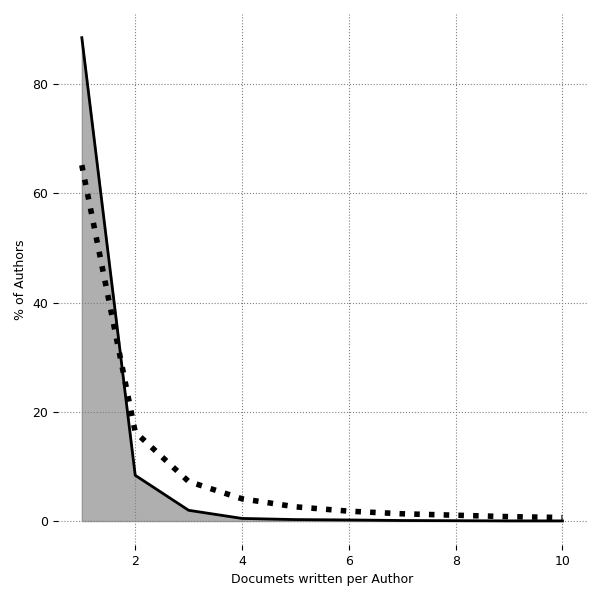
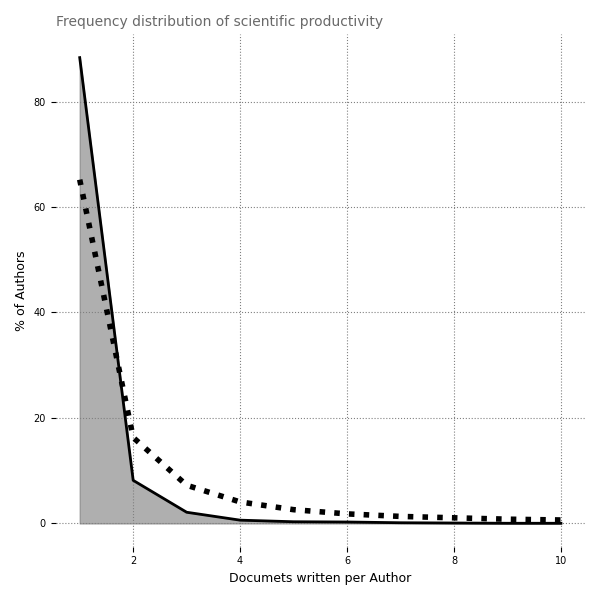
lotka plot enhancement

diff --git a/techminer/lotka_plot.py b/techminer/lotka_plot.py
@@ -5,10 +5,11 @@ Lotka Law's plot
 
 >>> from techminer import *
 >>> directory = "/workspaces/techminer-api/tests/data/"
->>> lotka_plot(directory)
+>>> file_name = "/workspaces/techminer-api/sphinx/images/lotka.png"
+>>> lotka_plot(directory).savefig(file_name)
 
 .. image:: images/lotka.png
-    :width: 400px
+    :width: 600px
     :align: center
 
 """
@@ -23,7 +24,6 @@ def lotka_plot(
     directory=None,
     cmap="Greys",
     figsize=(6, 6),
-    fontsize=9,
 ):
     """
     Returns a dataframe with the core analysis.
@@ -39,9 +39,6 @@ def lotka_plot(
         Dataframe with the core sources of the records
     """
 
-    # documents = load_filtered_documents(directory)
-
-    matplotlib.rc("font", size=fontsize)
     fig, ax_ = plt.subplots(figsize=figsize)
     cmap = plt.cm.get_cmap(cmap)
     color = cmap(0.6)
@@ -83,8 +80,17 @@ def lotka_plot(
 
     ax_.grid(axis="y", color="gray", linestyle=":")
     ax_.grid(axis="x", color="gray", linestyle=":")
-    ax_.set_ylabel("% of Authors")
-    ax_.set_xlabel("Documets written per Author")
+    ax_.tick_params(axis="x", labelsize=7)
+    ax_.tick_params(axis="y", labelsize=7)
+    ax_.set_ylabel("% of Authors", fontsize=9)
+    ax_.set_xlabel("Documets written per Author", fontsize=9)
+
+    ax_.set_title(
+        "Frequency distribution of scientific productivity",
+        fontsize=10,
+        color="dimgray",
+        loc="left",
+    )
 
     fig.set_tight_layout(True)
 
